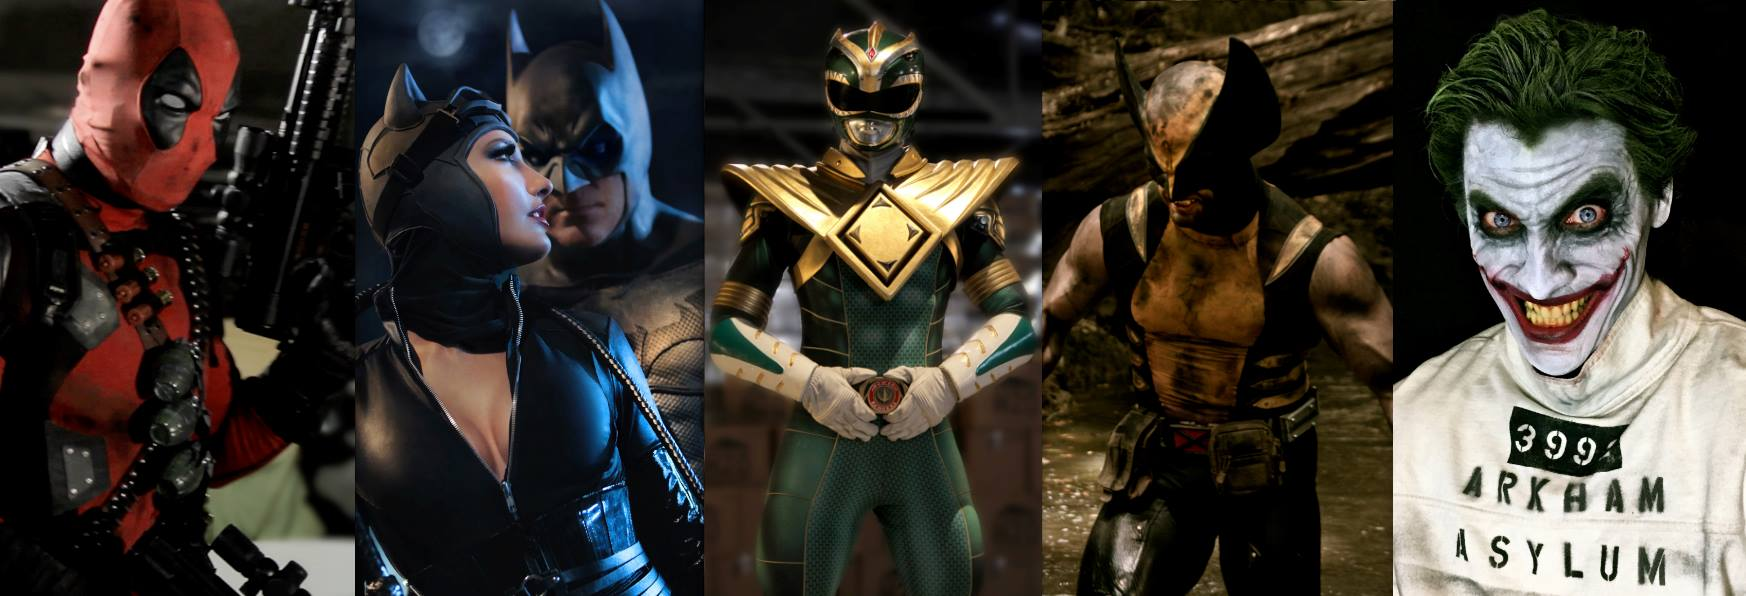
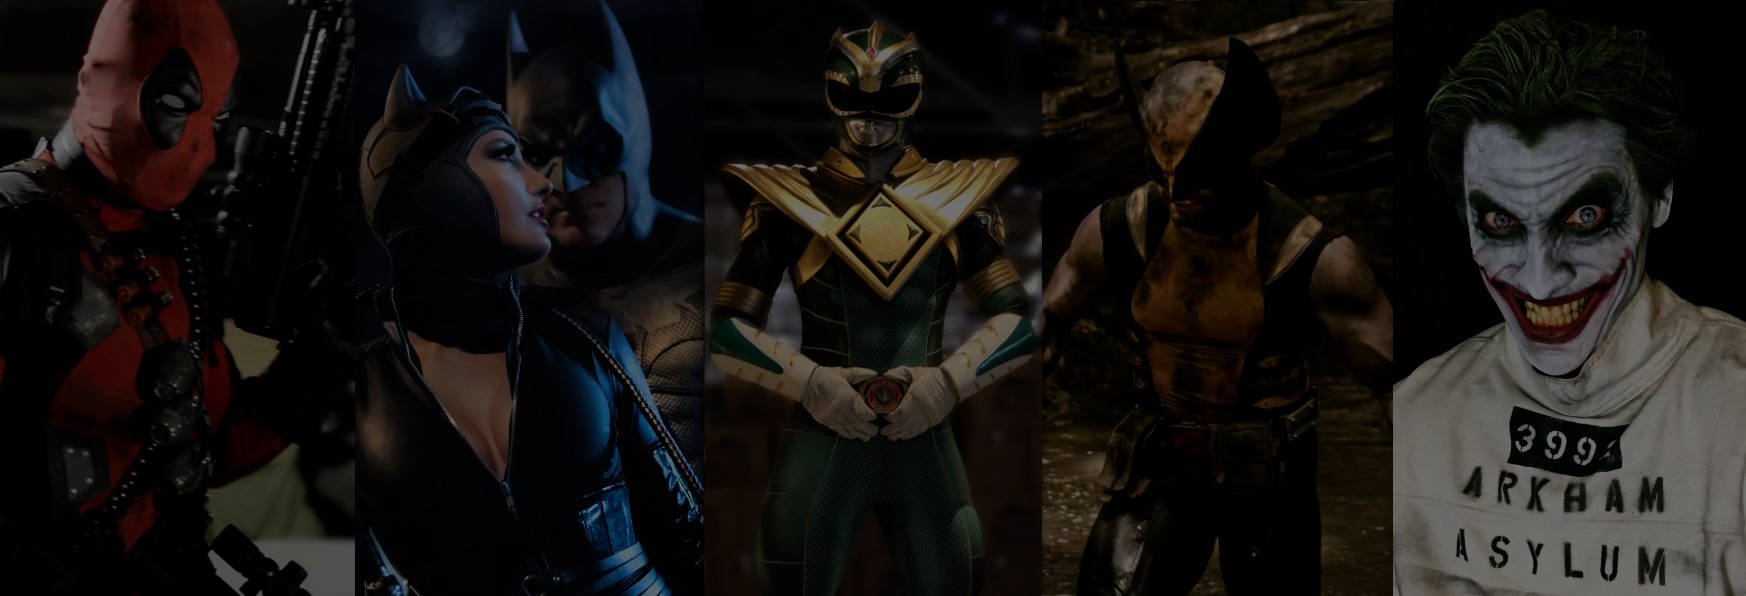
second run

diff --git a/src/characters.html b/src/characters.html
@@ -1,0 +1,117 @@
+<!doctype html>
+<html>
+	<head>
+		<title>SUPER POWER BEAT DOWN – We take two super powered legends and make them battle!</title>
+		 <meta http-equiv="X-UA-Compatible" content="IE=edge">
+    <meta name="viewport" content="width=device-width, initial-scale=1">
+		<link rel="stylesheet" type="text/css" href="https://maxcdn.bootstrapcdn.com/bootstrap/3.3.7/css/bootstrap.min.css" />
+		<link href="https://fonts.googleapis.com/css?family=Open+Sans" rel="stylesheet">
+		<link rel="stylesheet" type="text/css" href="assets/scss/style.scss" />
+		<link rel="stylesheet" type="text/css" href="assets/scss/characters.scss" />
+	</head>
+
+	<body class="characters">
+		<section class="deck1">
+			<div class="container">
+				<div class="row">
+					<div class="col-sm-4">
+						<!-- <img style="width: 150px;" src="assets/img/logo.png" /> -->
+					</div>
+
+					<nav role="navigation" class="col-sm-8">
+						<ul class="nav nav-pills pull-right">
+							<li><a href="#">Episodes</a></li>
+							<li class="active"><a href="#">Characters</a></li>
+							<li><a href="#">Merchandise</a></li>
+							<li><a href="#">Contact</a></li>
+						</ul>
+					</nav>
+				</div>
+			</div>
+		</section>
+
+		<section class="deck2">
+			<div class="container">
+				<div class="row">
+					<div class="col-lg-12">
+		                <h1 class="page-header">Character Gallery</h1>
+		            </div>
+
+		            <div class="col-lg-3 col-sm-3 col-xs-12 thumb">
+		                <a class="thumbnail" href="#">
+		                    <img class="img-responsive" src="http://placehold.it/400x300" alt="">
+		                </a>
+		            </div>
+		            
+		            <div class="col-lg-3 col-sm-3 col-xs-12 thumb">
+		                <a class="thumbnail" href="#">
+		                    <img class="img-responsive" src="http://placehold.it/400x300" alt="">
+		                </a>
+		            </div>
+		            <div class="col-lg-3 col-sm-3 col-xs-12 thumb">
+		                <a class="thumbnail" href="#">
+		                    <img class="img-responsive" src="http://placehold.it/400x300" alt="">
+		                </a>
+		            </div>
+		            <div class="col-lg-3 col-sm-3 col-xs-12 thumb">
+		                <a class="thumbnail" href="#">
+		                    <img class="img-responsive" src="http://placehold.it/400x300" alt="">
+		                </a>
+		            </div>
+		            <div class="col-lg-3 col-sm-3 col-xs-12 thumb">
+		                <a class="thumbnail" href="#">
+		                    <img class="img-responsive" src="http://placehold.it/400x300" alt="">
+		                </a>
+		            </div>
+		            <div class="col-lg-3 col-sm-3 col-xs-12 thumb">
+		                <a class="thumbnail" href="#">
+		                    <img class="img-responsive" src="http://placehold.it/400x300" alt="">
+		                </a>
+		            </div>
+		            <div class="col-lg-3 col-sm-3 col-xs-12 thumb">
+		                <a class="thumbnail" href="#">
+		                    <img class="img-responsive" src="http://placehold.it/400x300" alt="">
+		                </a>
+		            </div>
+		            <div class="col-lg-3 col-sm-3 col-xs-12 thumb">
+		                <a class="thumbnail" href="#">
+		                    <img class="img-responsive" src="http://placehold.it/400x300" alt="">
+		                </a>
+		            </div>
+		            <div class="col-lg-3 col-sm-3 col-xs-12 thumb">
+		                <a class="thumbnail" href="#">
+		                    <img class="img-responsive" src="http://placehold.it/400x300" alt="">
+		                </a>
+		            </div>
+		            <div class="col-lg-3 col-sm-3 col-xs-12 thumb">
+		                <a class="thumbnail" href="#">
+		                    <img class="img-responsive" src="http://placehold.it/400x300" alt="">
+		                </a>
+		            </div>
+		            <div class="col-lg-3 col-sm-3 col-xs-12 thumb">
+		                <a class="thumbnail" href="#">
+		                    <img class="img-responsive" src="http://placehold.it/400x300" alt="">
+		                </a>
+		            </div>
+		            <div class="col-lg-3 col-sm-3 col-xs-12 thumb">
+		                <a class="thumbnail" href="#">
+		                    <img class="img-responsive" src="http://placehold.it/400x300" alt="">
+		                </a>
+		            </div>
+				</div>
+			</div>
+		</section>
+
+		<footer>
+			<div class="container">
+				<div class="row">
+					<div class="col-md-3">
+						Super Power Beat Down &copy; 2016.<br />
+						All Rights Reserved.
+					</div>
+				</div>
+			</div>
+		</footer>
+
+	</body>
+</html>

diff --git a/src/index.html b/src/index.html
@@ -2,12 +2,14 @@
 <html>
 	<head>
 		<title>SUPER POWER BEAT DOWN – We take two super powered legends and make them battle!</title>
+		 <meta http-equiv="X-UA-Compatible" content="IE=edge">
+    <meta name="viewport" content="width=device-width, initial-scale=1">
 		<link rel="stylesheet" type="text/css" href="https://maxcdn.bootstrapcdn.com/bootstrap/3.3.7/css/bootstrap.min.css" />
-		<link href="https://fonts.googleapis.com/css?family=Ubuntu" rel="stylesheet">
+		<link href="https://fonts.googleapis.com/css?family=Open+Sans" rel="stylesheet">
 		<link rel="stylesheet" type="text/css" href="assets/scss/style.scss" />
 	</head>
 
-	<body>
+	<body class="home">
 		<section class="deck1">
 			<div class="container">
 				<div class="row">
@@ -18,7 +20,7 @@
 					<nav role="navigation" class="col-sm-8">
 						<ul class="nav nav-pills pull-right">
 							<li><a href="#">Episodes</a></li>
-							<li><a href="#">Characters</a></li>
+							<li><a href="characters.html">Characters</a></li>
 							<li><a href="#">Merchandise</a></li>
 							<li><a href="#">Contact</a></li>
 						</ul>
@@ -64,7 +66,7 @@
 					<div class="col-sm-12 col-md-5">
 						<h3>WOLVERINE vs WONDER WOMAN</h3>
 
-						<p>The Amazonian princess takes on the animal with a temper in episode 20 of Super Power Beat Down! COMING THIS WINTER!</p>
+						<p>The Amazonian princess takes on the animal with a temper in episode 20 of Super Power Beat Down! <br />COMING THIS WINTER!</p>
 
 						<p>VOTING ENDS NOVEMBER 1st.</p>
 

diff --git a/grab.js b/grab.js
@@ -1,0 +1,51 @@
+var request = require('request');
+var mongojs = require('mongojs');
+
+var db = mongojs('batinthesun', ["videos"]);
+
+db.on('error', function(err) {
+  console.log('Database Error:', err);
+});
+
+var videos = [
+	'K1-oA5joVOk',
+	'oCdrAnbXYRY',
+	'kF6XHxVlPpI',
+	'8Q2uzIv4nhg',
+	'QVmKVE3NYMI',
+	'2rut_-YgJYw',
+	'u3tC8TPh9oQ',
+	'qv6saLrn3UY',
+	'NkMxa64H0xY',
+	'VWkLH97mMdU',
+	'MtDe9ZhYGDQ',
+	'ur6hSy7DWXw',
+	'ap8r3AA0PIk',
+	's3wDj7bYve0',
+	'wAg2m5UlBYw',
+	'6M5pYyW6lLw',
+	'DBdyDfKwpmg',
+	'QXrjTXD5L3s',
+	'nqu1CEy8M4g',
+	'UuKQ3Oc97Wk',
+	'aF2J_7clCo8',
+];
+
+var req = {
+	url: 'https://www.googleapis.com/youtube/v3/videos',
+	qs: {
+		id: videos.join(','),
+		key: 'AIzaSyBGg0erZ17kflNYBVqhxrm7KKXgP50ztQ0',
+		part: 'snippet,contentDetails,statistics,status'
+	}
+};
+
+// var url = 'https://www.googleapis.com/youtube/v3/search?key=AIzaSyBGg0erZ17kflNYBVqhxrm7KKXgP50ztQ0&channelId=UCZQPsy92dpejcCJfZDbp__Q&part=snippet,id&order=date&maxResults=50';
+
+request(req, function(err, data, body) {
+	body = JSON.parse(body);
+	// console.log(body.items);
+	body.items.forEach(function(video) {
+		db.videos.insert(video);
+	})
+});

diff --git a/src/assets/scss/style.scss b/src/assets/scss/style.scss
@@ -2,9 +2,36 @@ body {
 	margin: 0; 
 	padding: 0; 
 	height: 100%;
-	font-family: 'Ubuntu', sans-serif;
+	font-family: 'Open Sans', sans-serif;
 	line-height: 1.5; 
 	overflow-x: hidden;
+}
+
+.nav-pills>li>a, 
+.btn, 
+.btn-group-lg>.btn,
+.btn-lg {
+    border-radius: 0px;
+    text-transform: uppercase;   
+}
+
+a {
+	color: #dd3333;
+}
+
+a:hover {
+	color: #B90000;
+}
+
+.nav-pills>li.active>a, .nav-pills>li.active>a:focus, .nav-pills>li.active>a:hover {
+    color: #fff;
+    background-color: #B90000;
+}
+
+.btn {
+	background: #dd3333 !important;
+    border-color: #B90000 !important;
+	font-size: 70%;
 }
 
 .deck1 {
@@ -26,6 +53,8 @@ body {
 /*	background: url('../img/SuperPowerBeatDown.png') no-repeat center 385px;
 	background-size: 60%;*/
 	background-color: #fff;
+	min-height: 300px;
+	height: 450px;
 }
 
 h2 {
@@ -60,5 +89,7 @@ nav {
 @media (max-width: 991px) {
 	.deck3 {
 		background-image: none;
+		height: 75vh;
+		min-height: 550px;
 	}
 }

diff --git a/src/assets/scss/characters.scss b/src/assets/scss/characters.scss
@@ -1,0 +1,18 @@
+.deck1 {
+	background: url('../img/10865731_10153510478496632_7411151336509906315_o.jpg') no-repeat;
+	background-size: cover;
+	background-position: 0px -50px;
+	height: 20vh;
+}
+
+section {
+	min-height: 100px;
+}
+
+.deck2 {
+	padding: 0;
+}
+
+.thumb {
+    margin-bottom: 30px;
+}
